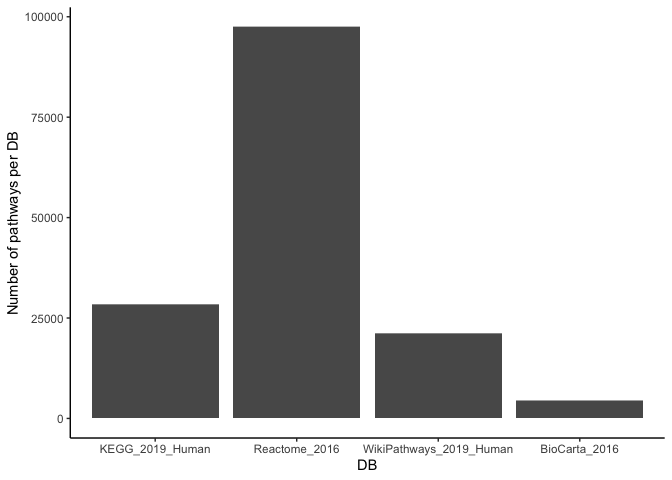
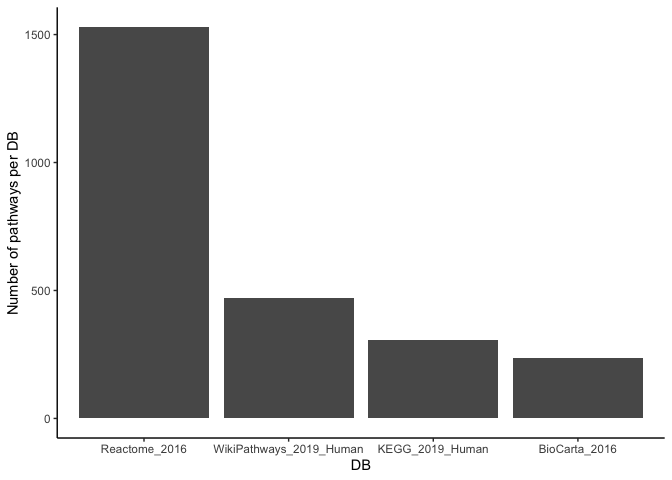
update pathway README

diff --git a/pathways.md b/pathways.md
@@ -5,13 +5,11 @@ date: "December 3, 2016"
 output: 
   html_document: 
     keep_md: yes
-    toc: true
-    toc_depth: 5
 ---
 
 
 
-## Steps to reproduce pathways datasets (Genes symbols for each pathway database)
+## Steps to reproduce pathways datasets
 * downloaded from https://amp.pharm.mssm.edu/Enrichr/#stats on February 20, 2020 and converted them to .csv:
   - each row of the file is a pathway name followed by the gene symbols that belong to that pathway
   - applying read.delim() on the .txt files resulted in some issues (genes names going to the next line down)
@@ -48,8 +46,8 @@ pathwayDB <- lapply(databaseFiles, function(pathwayName){
 ```r
 pathwayDB %>% 
   dplyr::select(DB, Pathways) %>% 
-  group_by(DB, Pathways) %>% 
-  summarise(n = n()) %>% 
+  group_by(DB) %>% 
+  summarise(n = n_distinct(Pathways)) %>% 
   ggplot(aes(x = reorder(DB, -n), y = n)) +
   geom_bar(stat = "identity") +
   ylab("Number of pathways per DB") +
